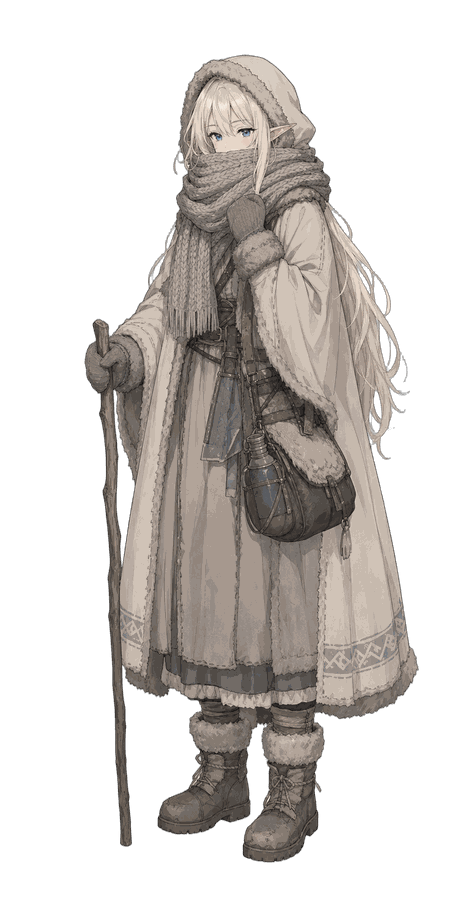
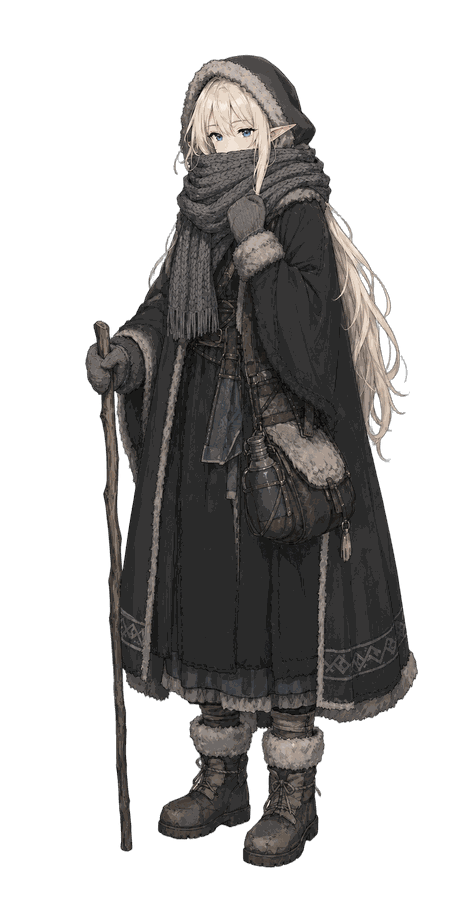
勢力統合（プリムス=同盟・ヴァイスの後ろ盾を明記）＋回廊の拠点セクション新設（出入り口二つ・内部拠点の導入文）＋テシャ=マスケット版・アクアリエルナ=ダーク版に画像更新

diff --git a/index.html b/index.html
@@ -836,7 +836,8 @@ footer p { font-size:11.5px; color:var(--dim); max-width:640px; margin:0 auto; l
     <div class="mappane" id="mapWide">
     <figure class="mapfig reveal"><div class="mapwrap wmlayers"><img src="assets/wm_base.jpg" loading="lazy" alt="エリンディル西方の広域地図"><img class="wm-terr" src="assets/wm_terr.png" alt="" aria-hidden="true"><img class="wm-names" src="assets/wm_names.png" alt="" aria-hidden="true"></div><figcaption>エリンディル西方 ─── 地図：辺境TRPG村 制作</figcaption></figure>
     </div>
-    <h3 class="wsec reveal">凍結の回路<small>THE FROZEN CIRCUIT — 171km</small></h3>
+    <h3 class="wsec reveal">回廊の拠点<small>STATIONS — 171km</small></h3>
+    <p class="reveal wl-lead">回廊の口は二つ───北の果てのプリムスと、南のラーフ大洞窟。そのあいだ171kmの闇を一息に抜けられる者はいない。だから回廊の内には、旅を区切る拠点が生まれた。検問の野営地・ただ一軒の宿・炉の燃える横丁───灯りから灯りへ。それが回廊の旅である。</p>
     <div class="journey">
       <div class="road" aria-hidden="true"></div>
 
@@ -987,7 +988,7 @@ footer p { font-size:11.5px; color:var(--dim); max-width:640px; margin:0 auto; l
   <div class="wrap">
 
     <section class="fgroup">
-      <article class="card reveal"><h4>プリムス</h4><p>沈黙の氷原にただひとつ根を張った、人の暮らす拠点。掲げる使命は入植───この氷の大地を、人が生き続けられる土地に変えること。西方とつなぐ唯一の道・凍結の回路が止まれば、その営みは立ち行かなくなる。</p><details class="fmore"><summary>詳しく読む</summary><div><p>聖暦1043年、ヴァイス王国の子爵ヴェルトール・ランベントがその立場を退き、開拓団の設立を宣言したことに始まる。現在の代表は、彼の遺志を継いだ娘のアリス・ランベント。統治は団員による合議制。</p><p>パリス同盟各国の共同出資による国際機関だが、事務方の多くはヴァイス王国の出身者で、ランベント騎士団の斥候隊「黄色中隊」もプリムスに常駐している。輸入は食料と生活必需品と薬品。輸出は、氷原で採れる純度の高い宝石。</p><p>団員は食堂での共同の食事に代表される共同生活を営む。氷原育ちの子供たち───低温と豪雪にきわめて高く適応した世代は「アイスメイト」と呼ばれ、12歳ごろから入団試験を経て団の仕事を手伝う。</p></div></details></article>
+      <article class="card reveal"><h4>プリムス</h4><p>沈黙の氷原にただひとつ根を張った、人の暮らす拠点。掲げる使命は入植───この氷の大地を、人が生き続けられる土地に変えること。西方とつなぐ唯一の道・凍結の回路が止まれば、その営みは立ち行かなくなる。運営はパリス同盟諸都市とヴァイス王国の共同───遠い中原の同盟と始まりの王国が、この最果ての灯の後ろ盾である。</p><details class="fmore"><summary>詳しく読む</summary><div><p>聖暦1043年、ヴァイス王国の子爵ヴェルトール・ランベントがその立場を退き、開拓団の設立を宣言したことに始まる。現在の代表は、彼の遺志を継いだ娘のアリス・ランベント。統治は団員による合議制。</p><p>パリス同盟各国の共同出資による国際機関だが、事務方の多くはヴァイス王国の出身者で、ランベント騎士団の斥候隊「黄色中隊」もプリムスに常駐している。輸入は食料と生活必需品と薬品。輸出は、氷原で採れる純度の高い宝石。</p><p>団員は食堂での共同の食事に代表される共同生活を営む。氷原育ちの子供たち───低温と豪雪にきわめて高く適応した世代は「アイスメイト」と呼ばれ、12歳ごろから入団試験を経て団の仕事を手伝う。</p><p>後ろ盾のパリス同盟は、神聖ヴァンスター帝国への抑止のため聖暦1002年に中原の国家が結んだ政治・軍事同盟であり、氷原開拓団の生みの親でもある。母体はネルス川流域の商業同盟。宗主格は&quot;遺跡の街&quot;ライン（同盟評議会の開催地）。中枢7国家で構成され、その領域は北のヴェンガルド川から南のラッセル川に及ぶ。</p><p>魔将戦争と薔薇の災厄の復旧、そして聖暦1009年に北方から受けた妖魔の大侵攻───同盟はいまも多くの傷を抱えている。それでも人口増加と資源不足の未来に備え、北の氷原の開拓に望みを賭けた。</p></div></details></article>
       <div class="chgrid">
       <button class="ch reveal fac-primus t-open" data-src="assets/p_reif.png" data-cap="レイフ・ストーム"
         data-km="凍結の回路・安全通行責任者" data-desc="フロストゲートの野営地に常駐する几帳面で世話好きな男。回廊で起きたことは最後にはぜんぶ彼の机に集まる。旅の始まりと終わりに彼の顔がある。">
@@ -1020,10 +1021,6 @@ footer p { font-size:11.5px; color:var(--dim); max-width:640px; margin:0 auto; l
         <span class="ch-body"><b>カイル・コズワース</b><span class="role">開拓団・元団長直衛</span></span>
       </button>
       </div>
-    </section>
-
-    <section class="fgroup">
-      <article class="card reveal"><h4>パリス同盟</h4><p>神聖ヴァンスター帝国への抑止のため、聖暦1002年に中原の国家が結んだ政治・軍事同盟。氷原開拓団の生みの親であり、後ろ盾。</p><details class="fmore"><summary>詳しく読む</summary><div><p>母体はネルス川流域の商業同盟。宗主格は&quot;遺跡の街&quot;ライン（同盟評議会の開催地）。中枢7国家で構成され、その領域は北のヴェンガルド川から南のラッセル川に及ぶ。</p><p>魔将戦争と薔薇の災厄の復旧、そして聖暦1009年に北方から受けた妖魔の大侵攻───同盟はいまも多くの傷を抱えている。それでも人口増加と資源不足の未来に備え、北の氷原の開拓に望みを賭けた。</p></div></details></article>
     </section>
 
     <section class="fgroup">
